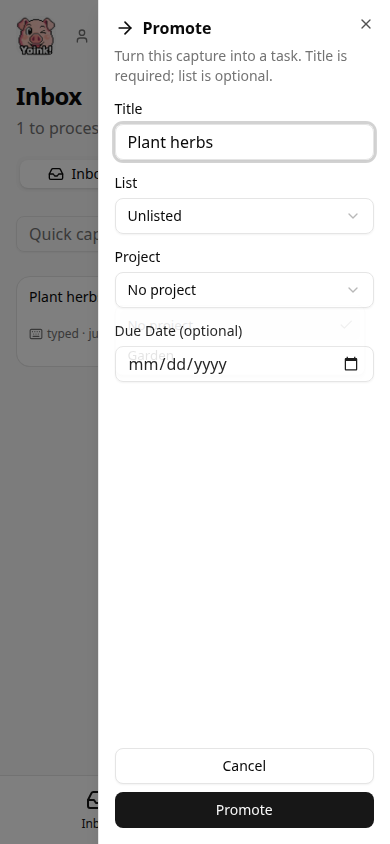
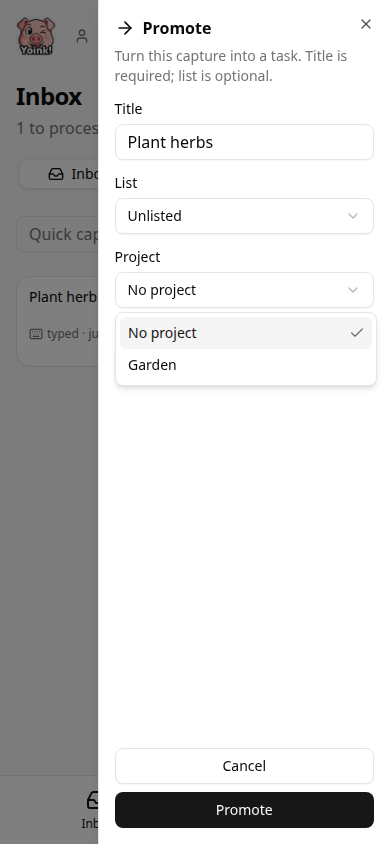
Retake #135 walkthrough shots after the picker menu settles
Wait for the open Select option to be visible and the menu animation
to finish before saving. Show the project page without Older for the
remove step. Pass the story folder into the screenshot helper.

diff --git a/packages/acceptance-testing/src/drivers/playwright/walkthrough-screenshots.ts b/packages/acceptance-testing/src/drivers/playwright/walkthrough-screenshots.ts
@@ -3,21 +3,24 @@ import { mkdir } from 'node:fs/promises';
 import path from 'node:path';
 
 /**
- * Playwright walkthrough shots for Polly's #135 sign-off.
- * Files land under docs/pr-artifacts so they can be committed and
- * embedded on the PR.
+ * Playwright walkthrough shots for PR sign-off.
+ * Files land under docs/pr-artifacts/<story> so they can be committed
+ * and linked from the PR.
  */
-export const WALKTHROUGH_STORY = '135-tasks-in-projects';
-
 export type WalkthroughViewport = 'desktop' | 'phone';
 
 const STEP_PATTERN = /^[a-z0-9_]+$/;
+const STORY_PATTERN = /^[a-z0-9]+(?:-[a-z0-9]+)*$/;
 
 export const walkthroughScreenshotPath = (input: {
   repoRoot: string;
+  story: string;
   viewport: WalkthroughViewport;
   step: string;
 }): string => {
+  if (!STORY_PATTERN.test(input.story)) {
+    throw new Error(`Walkthrough story folder must be a kebab-case slug: ${input.story}`);
+  }
   if (!STEP_PATTERN.test(input.step)) {
     throw new Error(`Walkthrough screenshot step must be snake_case: ${input.step}`);
   }
@@ -25,7 +28,7 @@ export const walkthroughScreenshotPath = (input: {
     input.repoRoot,
     'docs',
     'pr-artifacts',
-    WALKTHROUGH_STORY,
+    input.story,
     `${input.viewport}_${input.step}.png`
   );
 };
@@ -44,14 +47,81 @@ export const findRepoRoot = (fromDir: string): string => {
   }
 };
 
+/**
+ * Kit Select fade/zoom is still running when Playwright first sees the
+ * option as visible. Wait until the named option is up and the open
+ * menu has finished animating (opacity 1, no in-flight animations).
+ */
+export const waitForSettledOpenSelect = async (input: {
+  page: {
+    getByRole: (role: 'listbox') => {
+      locator: (selector: string) => {
+        filter: (options: { hasText: string }) => {
+          waitFor: (options: { state: 'visible' }) => Promise<unknown>;
+        };
+        first: () => { waitFor: (options: { state: 'visible' }) => Promise<unknown> };
+      };
+    };
+    locator: (selector: string) => {
+      last: () => {
+        waitFor: (options: { state: 'visible' }) => Promise<unknown>;
+        evaluate: (
+          fn: (el: {
+            getAnimations: (options: { subtree: boolean }) => Array<{
+              finished: Promise<unknown>;
+            }>;
+            ownerDocument: {
+              defaultView: {
+                getComputedStyle: (element: unknown) => { opacity: string };
+              } | null;
+            };
+          }) => Promise<void>
+        ) => Promise<unknown>;
+      };
+    };
+  };
+  visibleOptionName?: string;
+}): Promise<void> => {
+  const listbox = input.page.getByRole('listbox');
+  const option = input.visibleOptionName
+    ? listbox.locator('[data-slot="select-item"]').filter({ hasText: input.visibleOptionName })
+    : listbox.locator('[data-slot="select-item"]').first();
+  await option.waitFor({ state: 'visible' });
+
+  const menu = input.page.locator('[data-slot="select-content"]').last();
+  await menu.waitFor({ state: 'visible' });
+  // Callback must be self-contained: Playwright serializes it into the page.
+  await menu.evaluate(async (el) => {
+    const view = el.ownerDocument.defaultView;
+    if (view === null) {
+      throw new Error('expected a window for computed style');
+    }
+    const finish = () =>
+      Promise.all(
+        el.getAnimations({ subtree: true }).map((animation) => animation.finished.catch(() => undefined))
+      );
+    const deadline = Date.now() + 2000;
+    while (Date.now() < deadline) {
+      await finish();
+      if (view.getComputedStyle(el).opacity === '1') {
+        return;
+      }
+    }
+    throw new Error(`Select menu opacity settled at ${view.getComputedStyle(el).opacity}, expected 1`);
+  });
+  await option.waitFor({ state: 'visible' });
+};
+
 export const saveWalkthroughPng = async (input: {
-  page: { screenshot: (options: { path: string }) => Promise<unknown> };
+  page: { screenshot: (options: { path: string; animations?: 'disabled' }) => Promise<unknown> };
   fromDir: string;
+  story: string;
   viewport: WalkthroughViewport;
   step: string;
 }): Promise<string> => {
   const dest = walkthroughScreenshotPath({
     repoRoot: findRepoRoot(input.fromDir),
+    story: input.story,
     viewport: input.viewport,
     step: input.step,
   });

diff --git a/packages/acceptance-tests/src/use-cases/putting-tasks-in-projects.test.ts b/packages/acceptance-tests/src/use-cases/putting-tasks-in-projects.test.ts
@@ -263,6 +263,8 @@ usingDrivers(['playwright'] as const, (ctx) => {
   });
 });
 
+const WALKTHROUGH_STORY = '135-tasks-in-projects';
+
 const walkthroughViewports = [
   {
     name: 'desktop' as const,
@@ -289,20 +291,29 @@ usingDrivers(['playwright'] as const, (ctx) => {
         await alice.openRailUnlisted();
         await alice.openTaskEditFromRow(soil.id);
         await alice.openEditTaskProjectPicker('Garden');
-        await alice.saveWalkthroughScreenshot('edit_project_picker');
+        await alice.saveWalkthroughScreenshot({
+          story: WALKTHROUGH_STORY,
+          step: 'edit_project_picker',
+        });
         await alice.dismissOpenSelect();
         await alice.closeTaskEdit();
 
         await alice.openToday();
         await alice.openCreateTaskProjectPicker('Garden');
-        await alice.saveWalkthroughScreenshot('quick_add_project_picker');
+        await alice.saveWalkthroughScreenshot({
+          story: WALKTHROUGH_STORY,
+          step: 'quick_add_project_picker',
+        });
         await alice.dismissOpenSelect();
 
         await alice.createCapture({ content: 'Plant herbs' });
         await alice.openRailInbox();
         await alice.openPromoteSheet('Plant herbs');
         await alice.openPromoteProjectPicker('Garden');
-        await alice.saveWalkthroughScreenshot('promote_project_picker');
+        await alice.saveWalkthroughScreenshot({
+          story: WALKTHROUGH_STORY,
+          step: 'promote_project_picker',
+        });
         await alice.dismissOpenSelect();
         await alice.cancelPromoteSheet();
 
@@ -310,18 +321,19 @@ usingDrivers(['playwright'] as const, (ctx) => {
         await alice.createTask({ title: 'Newer', projectId: garden.id });
         await alice.goToProject(garden.id);
         await alice.shouldSeeOpenTasksOnProjectInOrder(['Newer', 'Older']);
-        await alice.saveWalkthroughScreenshot('project_page_open_tasks');
-
-        await alice.openTaskEditFromRow(older.id);
-        await alice.openEditTaskProjectPicker('No project');
-        await alice.saveWalkthroughScreenshot('remove_task_from_project');
-        await alice.dismissOpenSelect();
-        await alice.closeTaskEdit();
+        await alice.saveWalkthroughScreenshot({
+          story: WALKTHROUGH_STORY,
+          step: 'project_page_open_tasks',
+        });
 
         await alice.updateTask(older.id, { projectId: null });
         await alice.goToProject(garden.id);
         await alice.shouldNotSeeOpenTaskOnProject('Older');
         await alice.shouldSeeOpenTaskOnProject('Newer');
+        await alice.saveWalkthroughScreenshot({
+          story: WALKTHROUGH_STORY,
+          step: 'remove_task_from_project',
+        });
       }, 90_000);
     }
   });

diff --git a/packages/acceptance-testing/src/drivers/playwright/actor.ts b/packages/acceptance-testing/src/drivers/playwright/actor.ts
@@ -51,6 +51,7 @@ import {
 } from './page-objects.js';
 import {
   saveWalkthroughPng,
+  waitForSettledOpenSelect,
   type WalkthroughViewport,
 } from './walkthrough-screenshots.js';
 
@@ -1937,17 +1938,17 @@ export const createPlaywrightActor = (
 
     async openEditTaskProjectPicker(visibleProjectName: string): Promise<void> {
       await tasksPage.openEditProjectPicker(visibleProjectName);
-      await expect(page.getByRole('listbox')).toBeVisible();
+      await waitForSettledOpenSelect({ page, visibleOptionName: visibleProjectName });
     },
 
     async openCreateTaskProjectPicker(visibleProjectName: string): Promise<void> {
       await tasksPage.openCreateProjectPicker(visibleProjectName);
-      await expect(page.getByRole('listbox')).toBeVisible();
+      await waitForSettledOpenSelect({ page, visibleOptionName: visibleProjectName });
     },
 
     async openPromoteProjectPicker(visibleProjectName: string): Promise<void> {
       await inboxPage.openPromoteProjectPicker(visibleProjectName);
-      await expect(page.getByRole('listbox')).toBeVisible();
+      await waitForSettledOpenSelect({ page, visibleOptionName: visibleProjectName });
     },
 
     async dismissOpenSelect(): Promise<void> {
@@ -1957,12 +1958,17 @@ export const createPlaywrightActor = (
       await expect(listbox).toBeHidden();
     },
 
-    async saveWalkthroughScreenshot(step: string): Promise<void> {
+    async saveWalkthroughScreenshot(input: { story: string; step: string }): Promise<void> {
+      const listbox = page.getByRole('listbox');
+      if (await listbox.isVisible()) {
+        await waitForSettledOpenSelect({ page });
+      }
       await saveWalkthroughPng({
         page,
         fromDir: fileURLToPath(new URL('.', import.meta.url)),
+        story: input.story,
         viewport: walkthroughViewport,
-        step,
+        step: input.step,
       });
     },
 

diff --git a/packages/acceptance-testing/src/drivers/playwright/walkthrough-screenshots.test.ts b/packages/acceptance-testing/src/drivers/playwright/walkthrough-screenshots.test.ts
@@ -8,10 +8,11 @@ import {
 } from './walkthrough-screenshots.js';
 
 describe('walkthroughScreenshotPath', () => {
-  it('writes snake_case phone and desktop files under the story artifacts folder', () => {
+  it('writes snake_case phone and desktop files under the given story folder', () => {
     expect(
       walkthroughScreenshotPath({
         repoRoot: '/repo',
+        story: '135-tasks-in-projects',
         viewport: 'desktop',
         step: 'edit_project_picker',
       })
@@ -19,20 +20,33 @@ describe('walkthroughScreenshotPath', () => {
     expect(
       walkthroughScreenshotPath({
         repoRoot: '/repo',
+        story: '136-other-story',
         viewport: 'phone',
         step: 'remove_task_from_project',
       })
-    ).toBe('/repo/docs/pr-artifacts/135-tasks-in-projects/phone_remove_task_from_project.png');
+    ).toBe('/repo/docs/pr-artifacts/136-other-story/phone_remove_task_from_project.png');
   });
 
   it('rejects a step that is not snake_case', () => {
     expect(() =>
       walkthroughScreenshotPath({
         repoRoot: '/repo',
+        story: '135-tasks-in-projects',
         viewport: 'desktop',
         step: '../escape',
       })
     ).toThrow(/snake_case/);
+  });
+
+  it('rejects a story folder that is not a kebab-case slug', () => {
+    expect(() =>
+      walkthroughScreenshotPath({
+        repoRoot: '/repo',
+        story: '../escape',
+        viewport: 'desktop',
+        step: 'edit_project_picker',
+      })
+    ).toThrow(/kebab-case/);
   });
 });
 

diff --git a/packages/acceptance-testing/src/dsl/actor.ts b/packages/acceptance-testing/src/dsl/actor.ts
@@ -1151,9 +1151,11 @@ export type BrowserActorOperations = {
 
   /**
    * Save a viewport screenshot of the current page for PR walkthrough
-   * review. `step` is snake_case (e.g. `edit_project_picker`).
+   * review. `story` is the kebab-case artifacts folder (e.g.
+   * `135-tasks-in-projects`). `step` is snake_case (e.g.
+   * `edit_project_picker`).
    */
-  saveWalkthroughScreenshot(step: string): Promise<void>;
+  saveWalkthroughScreenshot(input: { story: string; step: string }): Promise<void>;
 
   /**
    * Open Inbox or Tasks from the mobile bottom tabs.

diff --git a/packages/acceptance-testing/src/drivers/http/actor.ts b/packages/acceptance-testing/src/drivers/http/actor.ts
@@ -1092,7 +1092,7 @@ export const createHttpActor = (
       throw new UnsupportedOperationError('dismissOpenSelect', 'http');
     },
 
-    async saveWalkthroughScreenshot(_step: string): Promise<void> {
+    async saveWalkthroughScreenshot(_input: { story: string; step: string }): Promise<void> {
       throw new UnsupportedOperationError('saveWalkthroughScreenshot', 'http');
     },
 

diff --git a/docs/PLAN.md b/docs/PLAN.md
@@ -84,7 +84,7 @@ For initial product vision and roadmap, see [PRODUCT_VISION.md](./design/PRODUCT
 Recent updates:
 - #135 mobile create row: two `w-[9.5rem] shrink-0` pickers (list + new project) overflowed the 390px Tasks page by 37px, which failed `named-list-rail-label-wrap` once the drawer was open. Title stacks above the pickers on small screens; pickers are `min-w-0 flex-1`.
 - #135 Tycho review: membership change-log ids come from one pure `projectMembershipChange` / `changeLogIdsForTaskUpdated` (required Added/Removed ids, no silent skip). TASK_NOT_OPEN carries `field: 'list' | 'project'` so HTTP names the refusal from the decide check, not from `body.projectId`. Acceptance: complete keeps `projectId` and drops the open list; PATCH clear on a finished task is refused and leaves membership. Walkthrough screenshots stay in Playwright. Shared `useOpenTaskMutations` for complete/delete/edit. `ProjectOption.status` is `ProjectStatus`. Dropped the unrelated admin `routeTree.gen.ts` reorder.
-- #135 walkthrough screenshots (Polly, Sat Oct 10, 2026): Playwright cases save phone + desktop PNGs at the five sign-off steps — edit project picker, quick-add project picker, Promote project picker, project page open tasks newest first, and remove-from-project picker — under `docs/pr-artifacts/135-tasks-in-projects/`. Test layer only (BrowserActor + page objects + HTTP stubs). No product-code change.
+- #135 walkthrough screenshots (Polly, Sat Oct 10, 2026): Playwright cases save phone + desktop PNGs at the five sign-off steps — edit / quick-add / Promote pickers after the Select menu finishes fading in, project page open tasks newest first, and the project page after removing Older — under `docs/pr-artifacts/135-tasks-in-projects/`. Helper takes `story` as a parameter. Test layer only. No product-code change.
 - Put tasks in a project (#135, story 4): product lock Polly (Sat Oct 10, 2026). A task is in 0 or 1 projects and 0 or 1 lists, independently — changing the project never touches `listId` or `openOrder`. Only open tasks move in or out (`TASK_NOT_OPEN`); finished tasks stay put and completing never removes them. A task can join any project status except done (`PROJECT_DONE` 400). Another org's project is `PROJECT_NOT_IN_ORGANIZATION` / 404. Bots can set or clear a project (no person guard). Create (`POST /api/tasks`) and capture-to-task accept optional `projectId`. `GET /api/projects/:id/tasks` returns open tasks newest by `created_at`, whole set up to the 1000 cap with `hasMore`/`nextCursor`/`total`, cursor view `tasks.project` keyed `[createdAt, id]` desc. Migration 030 adds nullable `tasks.project_id` and `idx_tasks_project`. Change log: `TaskAddedToProject` / `TaskRemovedFromProject` (v1 payload `projectId`); A→B writes removed(A)+added(B); create writes `TaskCreated.projectId` and no extra Added record (membership changes are for tasks that already exist). Other task records carry the current `projectId`; reorder/renumber stay null. Web: project picker on task edit, quick-add, and Promote (`tsrProjects.list`, `refetchInterval: false`; save sends `projectId` only when changed). Project page open tasks use query key `['tasks','project',id]` so they ride the live poll and invalidation. Board rows do not show the project. Out of scope: #136 status, #137 next action, #138 timeline/finished list, #139 import, board filters/row labels.
 - #134 E2E mobile drawer (`task-row-explicit-edit` desktop→phone): CI timed out 30s waiting for `[data-app-rail-surface="mobile-tasks"]` in `openMobileDrawer`. Local 20× of that file plus `mobile-rail-inside-tasks` and `named-list-overflow-above-drawer` (CI=true, `--maxWorkers=2`, `taskset` 2 CPUs; Vitest 3 has no `--repeat-each`) was **20/20 on this branch and 20/20 on main `de63a5a`** — every case, including “keeps complete, delete, drag…”. Projects rail does not gate or remount the surface: `AppRailPanel` always renders `<nav data-app-rail-surface>` and treats a pending/error projects query as `[]`; “New project” is always in `buildAppRailItems`; `MobileTasksRailDrawer` is unchanged vs main. The helper raced an existing href close: Tasks thumb `Link to="/tasks"` from `/tasks?pile=…` still redirects to Today, but `waitForURL(/\/tasks/)` was already true, so `openRailNamedList` could click the hamburger while that redirect was in flight and the drawer `location.href` effect set `open=false` before Vaul attached the surface. `openMobileDrawer` also waited 30s for `attached` outside its retry. Fix the helper: wait for the Today landing URL; retry the trigger when the surface is missing; poll on-screen rail items. Not a Projects-section product block.
 - Create and view a project (#134, story 3): product lock Polly (Sat Oct 10, 2026). Projects are a separate table from lists. Name rules are the shared `parseEntityName` helper (trim, not blank, ≤200, unique ignoring case among projects only). Objective is optional free text (≤2000). Create always yields `active`; no status editing. Creating uses shared `requirePerson` in `decideCreate` and maps `NOT_A_PERSON` to `PROJECT_CREATE_REQUIRES_PERSON` (HTTP 403) — session and a person's own token may create; bots list, read, and edit. Every write goes through `planProjectChange` + one `db.batch` and `withCommandLog`. Migration 029 creates `projects` and rebuilds `change_log` to widen `subject_type`. API: `POST/GET /api/projects`, `GET/PATCH /api/projects/:id`, full-set list with `hasMore`/`nextCursor`/`total`. Web: Projects in the side rail with New project; `/projects/$id` edits name and objective. Out of scope: tasks in projects, statuses/waiting-on, next action, timeline, notebook links, proposals.
